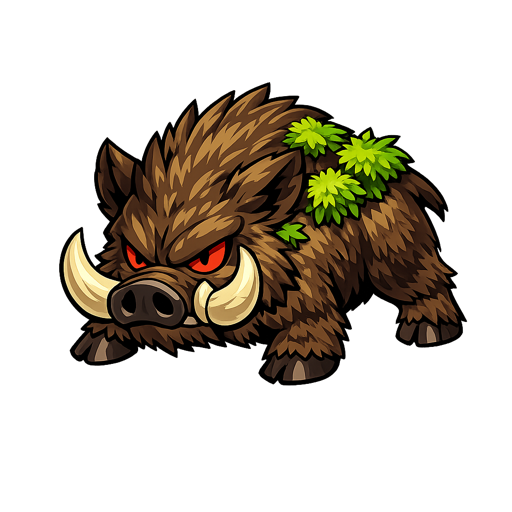
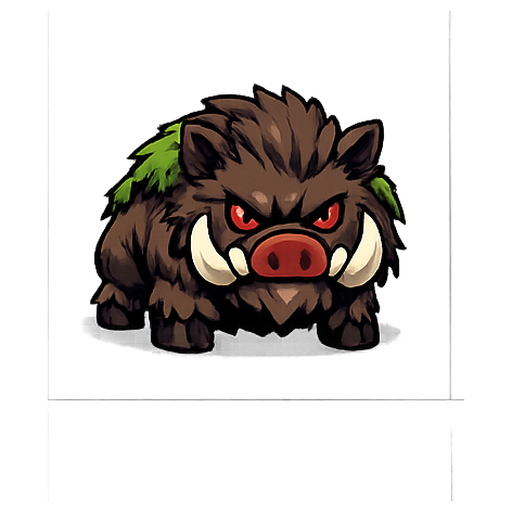
몬스터 스프라이트 개선: 슬라임/멧돼지/잔디기사 새 이미지 + 피격 프레임 추가

Changed region(s): [[0.0938, 0.125, 0.9062, 0.7812], [0.875, 0.75, 0.9062, 0.7812]]

diff --git a/docs/image_prompts.md b/docs/image_prompts.md
@@ -80,18 +80,18 @@
 >
 > Character design: An oversized mutant boar. Muscular body with dark brown coarse fur. Patches of green moss and grass growing on its back and shoulders. Two large curved tusks protruding from the mouth. Red angry eyes. Exaggerated muscular build with legs splayed outward. Thick dark outline. Chibi proportions, flat cel-shaded colors, mobile game art style. 3/4 top-down view.
 >
-> Row 1 (Frames 1-4): Gentle wobbling walk animation loop (1→2→3→4→1):
-> - Frame 1 (Neutral): Standing still, neutral pose. Legs splayed, body symmetrical.
-> - Frame 2 (Slight lean left): Body leans very slightly to the left, about 5 degrees only. Weight shifted subtly leftward. Almost the same as frame 1 but with a tiny leftward tilt.
-> - Frame 3 (Neutral): Same as frame 1. Back to center, perfectly symmetrical.
-> - Frame 4 (Slight lean right): Body leans very slightly to the right, about 5 degrees only. Mirror of frame 2. Weight shifted subtly rightward.
+> Row 1 (Frames 1-4): Stomping walk animation loop (1→2→3→4→1). The boar always faces the same direction (forward/front-facing) in all frames. Only the legs and body height change to create a heavy stomping walk:
+> - Frame 1 (Neutral): Standing still, front-facing. Legs splayed, body at normal height.
+> - Frame 2 (Left stomp): Left front leg raised slightly, right front leg planted. Body dips down very slightly on the right side (~5%). A heavy, lumbering step. Face still looking straight forward.
+> - Frame 3 (Neutral): Same as frame 1. Both legs planted, body level. Passing through neutral.
+> - Frame 4 (Right stomp): Right front leg raised slightly, left front leg planted. Body dips down very slightly on the left side (~5%). Mirror leg pose of frame 2. Face still looking straight forward.
 >
 > Row 2 (Frames 5-6: Hit reaction, Frames 7-8: empty):
-> - Frame 5 (Hit squash): Body crouches down violently — about 30% shorter and 25% wider. Eyes squeezed shut tight in pain, mouth open showing tusks. Pained expression. Legs buckled, flattened as if slammed from above.
-> - Frame 6 (Hit rebound): Body snaps back to roughly neutral height. Eyes still scrunched with a dazed/stunned look. Recovering from the hit.
+> - Frame 5 (Hit squash): Body crouches down violently — about 30% shorter and 25% wider. Eyes squeezed shut tight in pain, mouth open showing tusks. Pained expression. Legs buckled, flattened as if slammed from above. Still facing forward.
+> - Frame 6 (Hit rebound): Body snaps back to roughly neutral height. Eyes still scrunched with a dazed/stunned look. Still facing forward. Recovering from the hit.
 > - Frames 7-8: Leave completely empty (transparent).
 >
-> Important: The wobble in frames 1-4 should be very subtle. All frames must have identical dark brown fur colors, moss patches, tusks, and art style. Frames 1-4 share the same angry face. Frames 5-6 have a pained face. No glow effects, no dust, no particles. Clean solid body only.
+> Important: The boar must face the SAME direction (front-facing) in ALL 6 frames. Never show the boar turning or looking left/right. All frames must have identical dark brown fur colors, moss patches, tusks, and art style. Frames 1-4 share the same angry face. Frames 5-6 have a pained face. No glow effects, no dust, no particles. Clean solid body only.
 
 ---
 
@@ -107,18 +107,18 @@
 >
 > Character design: A humanoid knight made of woven grass and plant fiber. Armor plates of compressed green leaves and bark. Small flowers and weeds sprouting from joints and gaps in the armor. Holds a sharpened grass blade sword in right hand. T-shaped helmet visor with dark empty interior (no face visible). Thick dark outline. Chibi proportions, flat cel-shaded colors, mobile game art style. 3/4 top-down view.
 >
-> Row 1 (Frames 1-4): Gentle wobbling walk animation loop (1→2→3→4→1):
-> - Frame 1 (Neutral): Standing upright, neutral pose. Sword held at side.
-> - Frame 2 (Slight lean left): Entire body leans very slightly to the left, about 5 degrees only. Sword tilts with the body. Almost the same as frame 1.
-> - Frame 3 (Neutral): Same as frame 1. Back to center, standing upright.
-> - Frame 4 (Slight lean right): Entire body leans very slightly to the right, about 5 degrees only. Mirror of frame 2.
+> Row 1 (Frames 1-4): Walking animation loop (1→2→3→4→1). The head and torso stay stable — only the arms and legs move to create a shuffling walk cycle:
+> - Frame 1 (Neutral): Standing upright, neutral pose. Both arms at sides, sword in right hand pointing down. Legs straight, feet together.
+> - Frame 2 (Left step): Left leg steps forward, right leg back. Left arm (free hand) swings slightly forward, right arm (sword) swings slightly back. Head and torso remain perfectly upright and unchanged.
+> - Frame 3 (Neutral): Same as frame 1. Both legs together, arms at sides. Passing through neutral.
+> - Frame 4 (Right step): Right leg steps forward, left leg back. Right arm (sword) swings slightly forward, left arm swings slightly back. Mirror of frame 2. Head and torso remain perfectly upright and unchanged.
 >
 > Row 2 (Frames 5-6: Hit reaction, Frames 7-8: empty):
-> - Frame 5 (Hit squash): Body crouches down — about 25% shorter, knees bent, wider stance. Helmet tilts forward, body recoils. Leaves scatter slightly from the armor edges. Damaged, staggered pose.
-> - Frame 6 (Hit rebound): Body snaps back upright. Slightly wobbling, recovering stance. Some leaves still displaced.
+> - Frame 5 (Hit stagger): Body crouches down — about 20% shorter, knees bent, wider stance. Helmet visor cracks slightly or dents inward, the dark T-shaped opening distorts a bit. Sword arm drops. Leaves scatter slightly from armor edges. Staggered, recoiling pose.
+> - Frame 6 (Hit recover): Body snaps back upright. Helmet visor still slightly bent/damaged looking. Sword raised back up but loosely. Recovering stance.
 > - Frames 7-8: Leave completely empty (transparent).
 >
-> Important: The wobble in frames 1-4 should be very subtle. All frames must have identical green leaf armor, bark textures, flower details, and art style. No glow effects, no particles, no sword trails. Clean solid body only.
+> Important: In frames 1-4, the head, helmet, and torso must stay stable and upright — only limbs move. All frames must have identical green leaf armor, bark textures, flower details, and art style. No glow effects, no particles, no sword trails. Clean solid body only.
 
 ---
 
